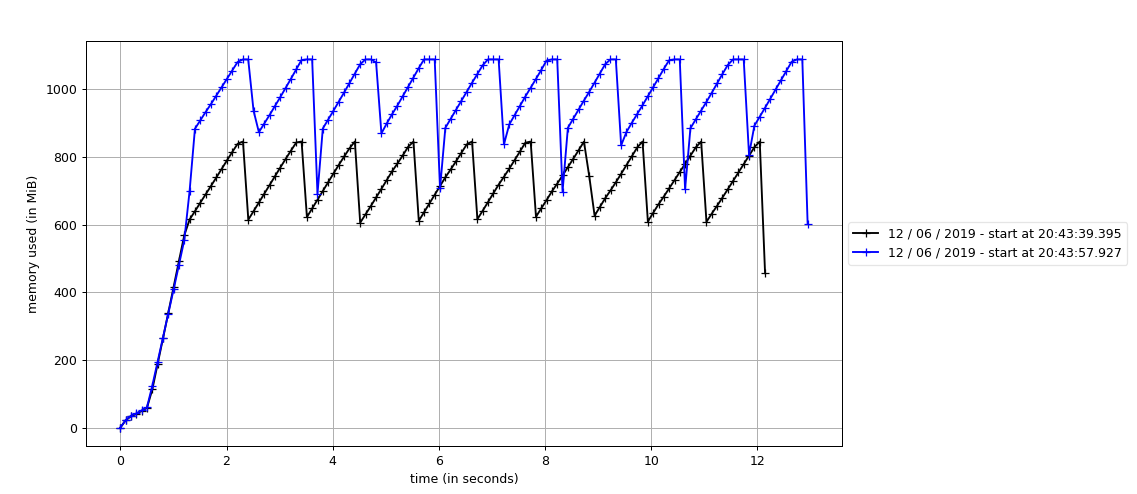
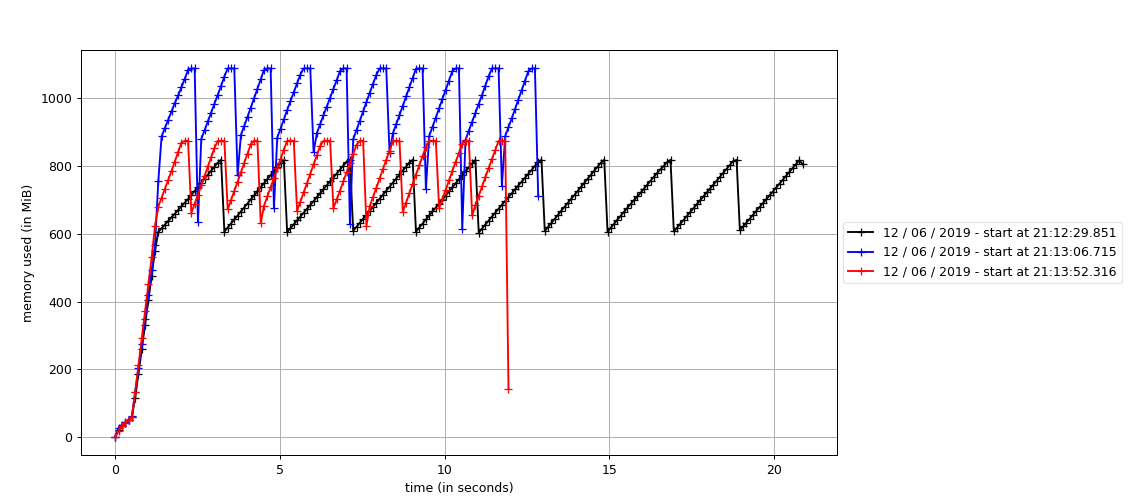
docs+fix: random benchmark was not using 26-connected on scipy

diff --git a/benchmarks/README.md b/benchmarks/README.md
@@ -78,8 +78,8 @@ This comparison was performed to show what happens when SciPy and `cc3d` are run
 ## 10x Head to Head: Random Binary Images  
 
 <p style="font-style: italics;" align="center">
-<img height=384 src="https://raw.githubusercontent.com/seung-lab/connected-components-3d/master/benchmarks/cc3d_vs_scipy_random_binary_images.png" alt="Fig. 3: SciPy vs cc3d run ten times on ten 384x384x384 random binary images. (black) SciPy 1.3.0 (blue) cc3d 1.2.2" /><br>
-Fig. 3: SciPy vs cc3d run ten times on ten 384x384x384 random binary images. (black) SciPy 1.3.0 (blue) cc3d 1.2.2
+<img height=384 src="https://raw.githubusercontent.com/seung-lab/connected-components-3d/master/benchmarks/cc3d_vs_scipy_random_binary_images.png" alt="Fig. 3: SciPy vs cc3d run ten times on ten 384x384x384 random binary images. (black) SciPy 1.3.0 (blue) cc3d 1.2.2 (red) cc3d 1.2.2 with max_labels set 100x smaller than image size" /><br>
+Fig. 3: SciPy vs cc3d run ten times on ten 384x384x384 random binary images. (black) SciPy 1.3.0 (blue) cc3d 1.2.2 (red) cc3d 1.2.2 with max_labels set 100x smaller than image size
 </p>   
 
 ```python
@@ -87,14 +87,21 @@ import numpy as np
 import scipy.ndimage.measurements
 import cc3d
 
+s = [
+  [[1,1,1], [1,1,1], [1,1,1]],
+  [[1,1,1], [1,1,1], [1,1,1]],
+  [[1,1,1], [1,1,1], [1,1,1]]
+]
+
 labels = [ 
   np.random.randint(0,2, size=(384, 384, 384), dtype=np.bool) 
   for _ in range(10)
 ]
 
 for label in labels:
-  # scipy.ndimage.measurements.label(label)
-  cc3d.connected_components(label)
+  # scipy.ndimage.measurements.label(label, structure=s) # black
+  cc3d.connected_components(label) # blue
+  # cc3d.connected_components(label, max_labels=(label.size // 100)) # red
 ```
 
-On random binary images, SciPy wins on memory with a peak memory cosumption of about 850 MB vs. cc3d with a peak consumption of about 1150 MB (1.4x). SciPy also wins on performance with an average time of 1.09 sec versus cc3d at 1.16 sec (1.06x). Bear in mind that 10 binary images are stored in memory at once, inflating the baseline. Each image is about 56MB, so 10 of them are about 560MB. With interpreter overhead, the baseline is somewhere around 600 MB. Therefore, SciPy uses about 250 MB and cc3d uses about 550 MB.
+On random binary images, SciPy wins on memory with a peak memory cosumption of about 800 MB vs. cc3d with a peak consumption of about 1150 MB (1.4x). However, SciPy doesn't perform as well as cc3d in running time with an average run time of 1.96 sec versus 1.15 sec. When cc3d's max_labels is set to 100x less than the image size, the memory usage falls to about 875 MB and the runtime falls to 1.07 sec. Bear in mind that 10 binary images are stored in memory at once, inflating the baseline. Each image is about 56MB, so 10 of them are about 560MB. With interpreter overhead, the baseline is somewhere around 600 MB. Therefore, SciPy uses about 200 MB, cc3d uses about 550 MB, and cc3d with max_labels / 100 uses about 275 MB.
